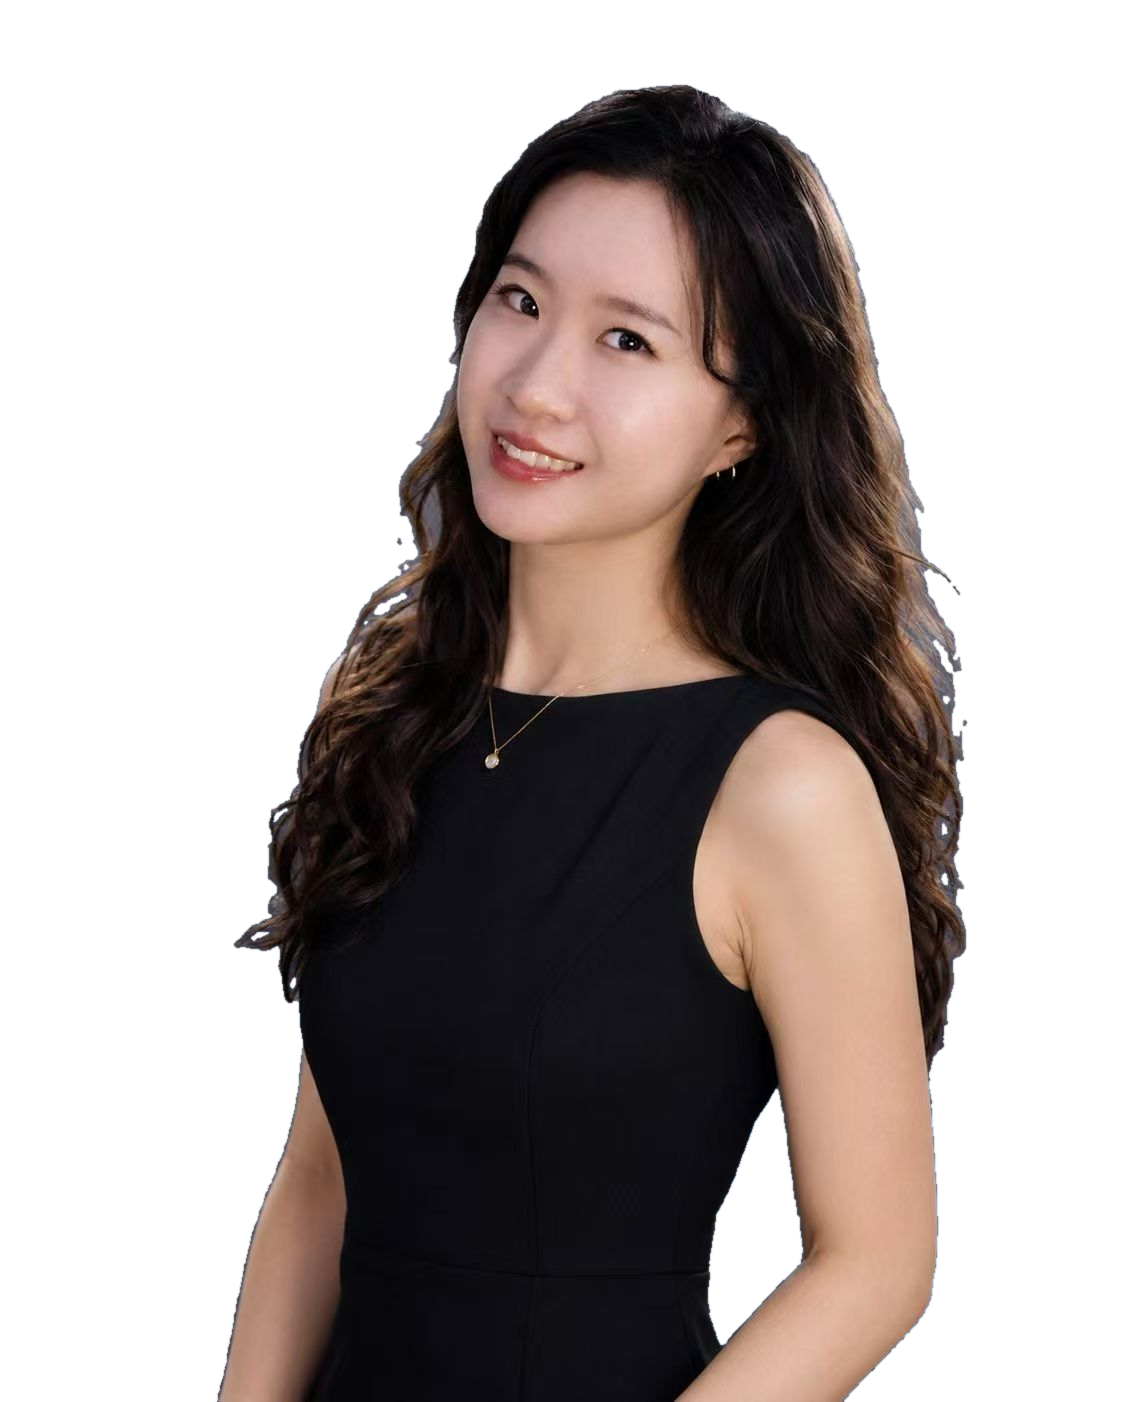
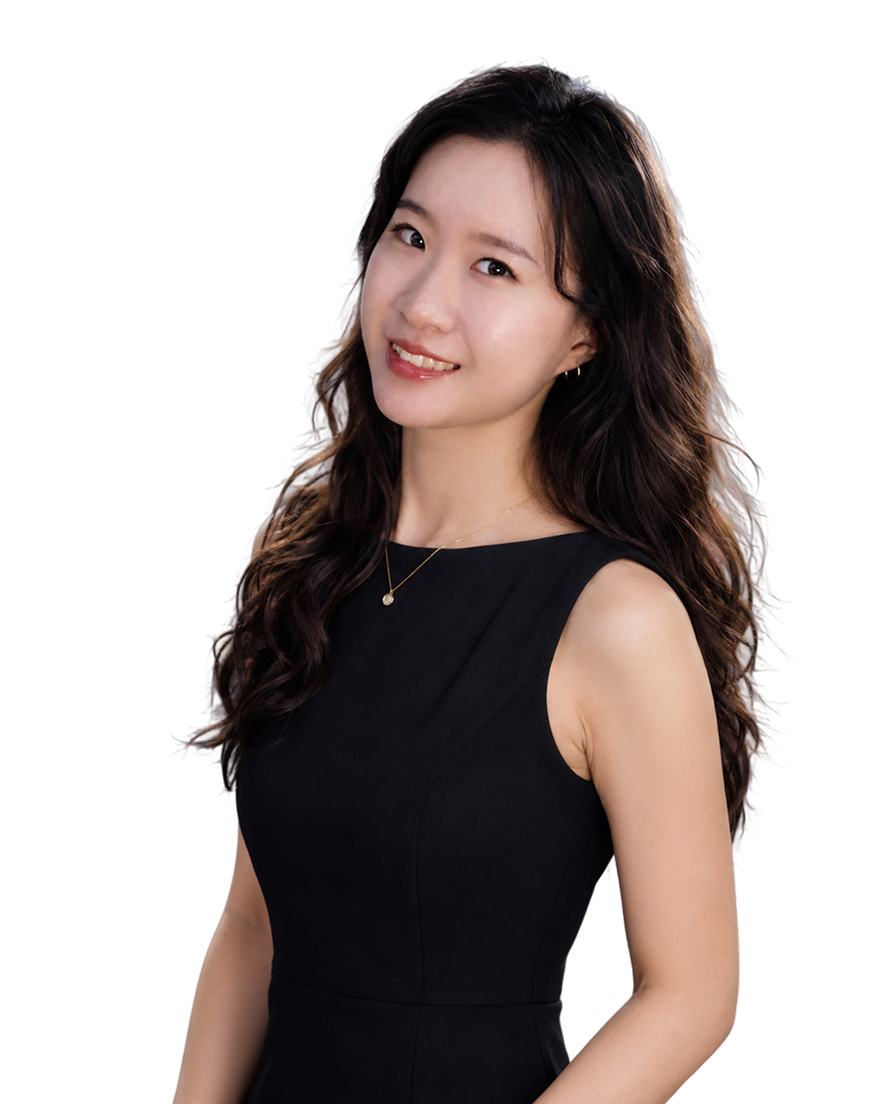
Refine about typography and experience highlights

diff --git a/src/styles.css b/src/styles.css
@@ -1,4 +1,4 @@
-@import url('https://fonts.googleapis.com/css2?family=DM+Mono:wght@400;500&family=Manrope:wght@300;400;500;600;700&family=Noto+Sans+SC:wght@300;400;500;600&display=swap');
+@import url('https://fonts.googleapis.com/css2?family=DM+Mono:wght@400;500&family=Manrope:wght@300;400;500;600;700&family=Noto+Sans+SC:wght@300;400;500;600&family=Noto+Serif+SC:wght@300;400;500;600;700&display=swap');
 
 :root {
   font-family: Manrope, 'Noto Sans SC', 'PingFang SC', sans-serif;
@@ -96,6 +96,17 @@ button:focus-visible, a:focus-visible, input:focus-visible, textarea:focus-visib
     radial-gradient(circle at 85% 18%, rgba(73,35,171,.18), transparent 28%),
     linear-gradient(155deg, #05050a 0%, #060818 45%, #020207 100%);
 }
+.cosmos::before {
+  content: '';
+  position: absolute;
+  z-index: -2;
+  inset: 0;
+  pointer-events: none;
+  background:
+    radial-gradient(ellipse at 50% 26%, rgba(255, 184, 94, .16), transparent 21%),
+    radial-gradient(ellipse at 50% 32%, rgba(98, 134, 255, .15), transparent 47%);
+  mix-blend-mode: screen;
+}
 .starfield, .scanlines, .cosmos-glow { position: absolute; inset: 0; width: 100%; height: 100%; pointer-events: none; }
 .starfield { z-index: -3; }
 .cosmos-glow {
@@ -175,32 +186,35 @@ button:focus-visible, a:focus-visible, input:focus-visible, textarea:focus-visib
 .galaxy-title {
   position: absolute;
   z-index: 5;
-  top: 15.5%;
+  top: 14.5%;
   left: 3.6vw;
-  width: min(650px, 52vw);
+  width: min(720px, 57vw);
   margin: 0;
   color: rgba(244,242,236,.93);
-  font-family: Manrope, 'Noto Sans SC', 'PingFang SC', 'Hiragino Sans GB', sans-serif;
-  font-size: clamp(38px, 4.1vw, 66px);
-  font-weight: 300;
-  line-height: 1.12;
-  letter-spacing: 0;
+  font-family: 'Noto Serif SC', 'Songti SC', 'STSong', serif;
+  font-size: clamp(40px, 4.45vw, 72px);
+  font-weight: 400;
+  line-height: 1.03;
+  letter-spacing: .025em;
+  text-shadow: 0 0 24px rgba(164, 183, 255, .12);
   pointer-events: none;
 }
 .galaxy-title > span, .galaxy-title em { display: block; white-space: nowrap; }
 .galaxy-title > span {
   color: rgba(244,242,236,.9);
   font-size: 1em;
-  font-weight: 300;
+  font-weight: 400;
 }
 .galaxy-title em {
-  margin-top: .34em;
-  padding-left: 1.75em;
-  color: #9aa7ff;
-  font-size: .78em;
+  margin-top: .22em;
+  padding-left: 1.8em;
+  color: #f5f2e9;
+  font-size: .7em;
   font-style: normal;
-  font-weight: 500;
-  line-height: 1.18;
+  font-weight: 300;
+  letter-spacing: .1em;
+  line-height: 1.2;
+  text-shadow: 0 0 16px rgba(255, 229, 138, .16);
 }
 .galaxy-title i { color: inherit; font-style: normal; }
 
@@ -453,15 +467,26 @@ button:focus-visible, a:focus-visible, input:focus-visible, textarea:focus-visib
   object-position: center bottom;
   filter: saturate(.84) contrast(1.02) drop-shadow(0 22px 25px rgba(20,26,60,.12));
 }
-.portrait-word {
+.portrait-word, .portrait-name {
   position: absolute;
   z-index: 3;
   left: -3%;
-  top: 47%;
   color: #3048ff;
-  font: 600 clamp(34px, 3.5vw, 52px)/1 Manrope, sans-serif;
+  font-family: Manrope, 'Noto Sans SC', 'PingFang SC', sans-serif;
   letter-spacing: 0;
   pointer-events: none;
+}
+.portrait-word {
+  top: 47%;
+  font-size: clamp(34px, 3.5vw, 52px);
+  font-weight: 600;
+  line-height: 1;
+}
+.portrait-name {
+  top: calc(47% + clamp(38px, 4vw, 58px));
+  font-size: clamp(27px, 2.8vw, 40px);
+  font-weight: 500;
+  line-height: 1;
 }
 .about-portrait figcaption {
   position: relative;
@@ -527,7 +552,33 @@ button:focus-visible, a:focus-visible, input:focus-visible, textarea:focus-visib
 .resume-heading strong, .education-item strong { display: block; color: #17171d; font-size: 17px; font-weight: 600; }
 .resume-heading p { margin: 5px 0 0; color: #626269; font-size: 11px; }
 .resume-heading time, .education-item time { flex: 0 0 auto; color: #76767e; font: 9px DM Mono, monospace; }
-.experience-summary { max-width: 660px; margin: 26px 0 0; color: #57575f; font-size: 12px; line-height: 1.82; }
+.experience-points {
+  display: grid;
+  gap: 16px;
+  max-width: 720px;
+  margin: 26px 0 0;
+  padding: 0;
+  color: #57575f;
+  font-size: 12px;
+  line-height: 1.78;
+  list-style: none;
+}
+.experience-points li {
+  position: relative;
+  padding-left: 22px;
+}
+.experience-points li::before {
+  content: '✦';
+  position: absolute;
+  left: 0;
+  top: .16em;
+  color: #3048ff;
+  font-size: 11px;
+}
+.experience-points strong {
+  color: #3048ff;
+  font-weight: 600;
+}
 .education-item { position: relative; padding: 0 0 22px; margin-bottom: 22px; border-bottom: 1px solid rgba(10,10,14,.14); }
 .education-item time { display: block; margin-bottom: 8px; }
 .education-item p { margin: 6px 0 0; color: #66666e; font-size: 11px; line-height: 1.7; }

diff --git a/index.html b/index.html
@@ -6,7 +6,7 @@
     <meta name="description" content="江晓丽的交互设计作品集——用研究理解人，用叙事连接产品。" />
     <meta name="theme-color" content="#05050a" />
     <title>江晓丽 · Interaction Designer</title>
-    <link rel="stylesheet" href="src/styles.css?v=20260901-5" />
+    <link rel="stylesheet" href="src/styles.css?v=20260903-2" />
   </head>
   <body>
     <div class="site-shell">
@@ -97,6 +97,7 @@
           <div class="about-hero">
             <figure class="about-portrait">
               <span class="portrait-word" aria-hidden="true">ABOUT</span>
+              <span class="portrait-name" aria-hidden="true">XIAOLI</span>
               <img src="src/assets/jiang-xiaoli-cutout.png" alt="交互设计师江晓丽" loading="lazy" />
               <figcaption><span>JIANG XIAOLI</span><span>UX / INTERACTION DESIGNER</span></figcaption>
             </figure>
@@ -121,7 +122,12 @@
                   <div><strong>深圳市心感智影科技有限公司</strong><p>UX/UI 设计实习生 · AI 软硬件初创</p></div>
                   <time>2026.05 — 2026.09</time>
                 </div>
-                <p class="experience-summary">负责 Odyss App、Pizza 营销页面与 IFA 深体验区的体验设计；结合用户研究、AIGC、Figma 与编程工具，推动方案从概念走向上线验证。</p>
+                <ul class="experience-points">
+                  <li>负责 <strong>Odyss App 产品体验设计</strong>，参与 <strong>AI 产品软硬件交互</strong>、UI 设计等核心工作；完成 <strong>Pizza 营销页面</strong>与 <strong>IFA 深体验区</strong>的体验流程设计和上线走查。</li>
+                  <li>深入开展<strong>用户研究与竞品分析</strong>，主动识别体验问题，并推动优化方案落地。</li>
+                  <li>协助完成<strong>界面视觉设计</strong>，参与制定设计规范与<strong>设计组件库搭建</strong>，确保产品视觉风格统一、一致。</li>
+                  <li>熟练运用 <strong>AIGC 设计工具</strong>，结合 <strong>Figma 与编程工具</strong>，高效推动设计方案从概念走向产品化落地。</li>
+                </ul>
               </article>
             </section>
 
